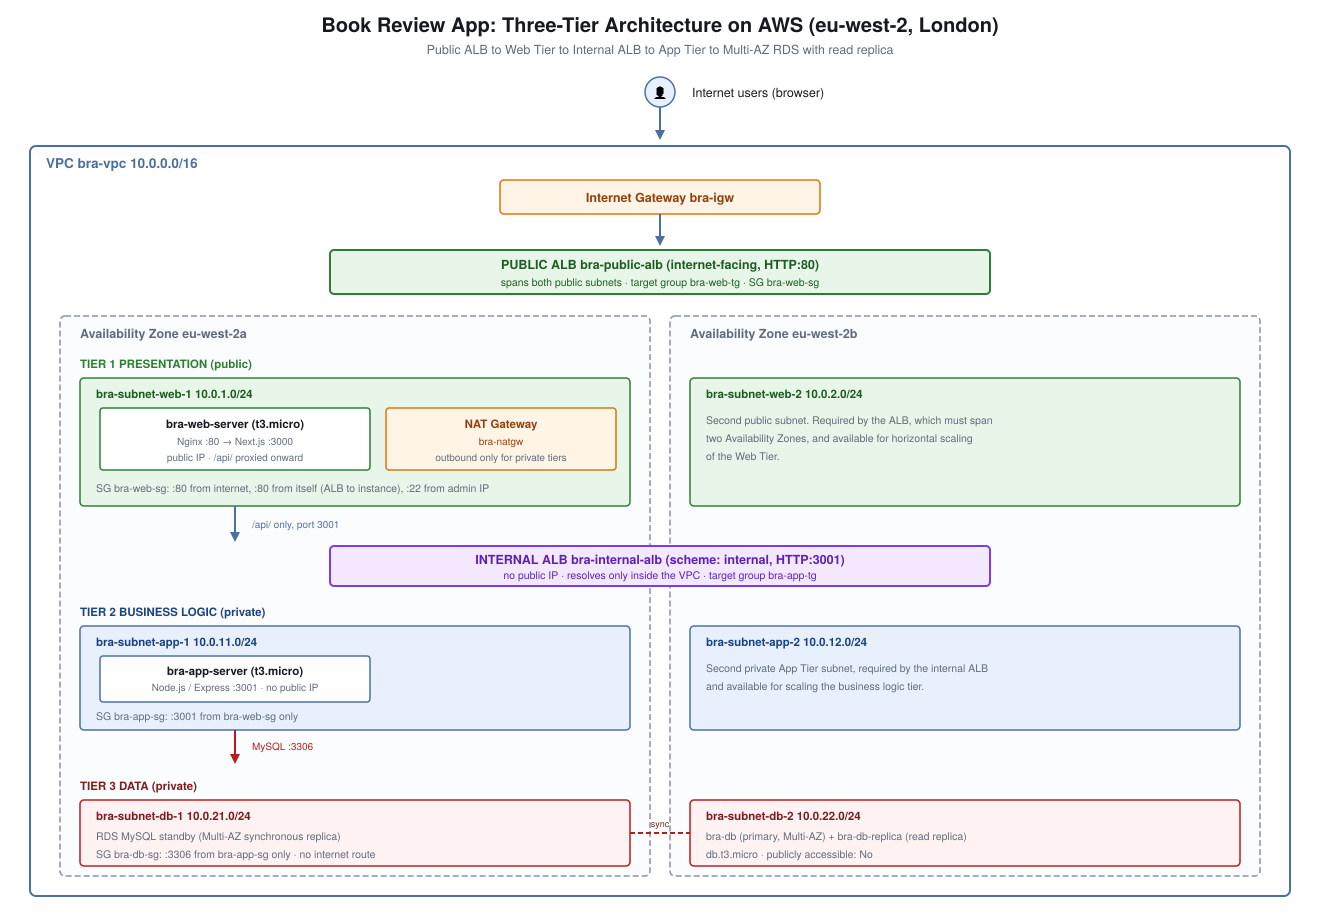
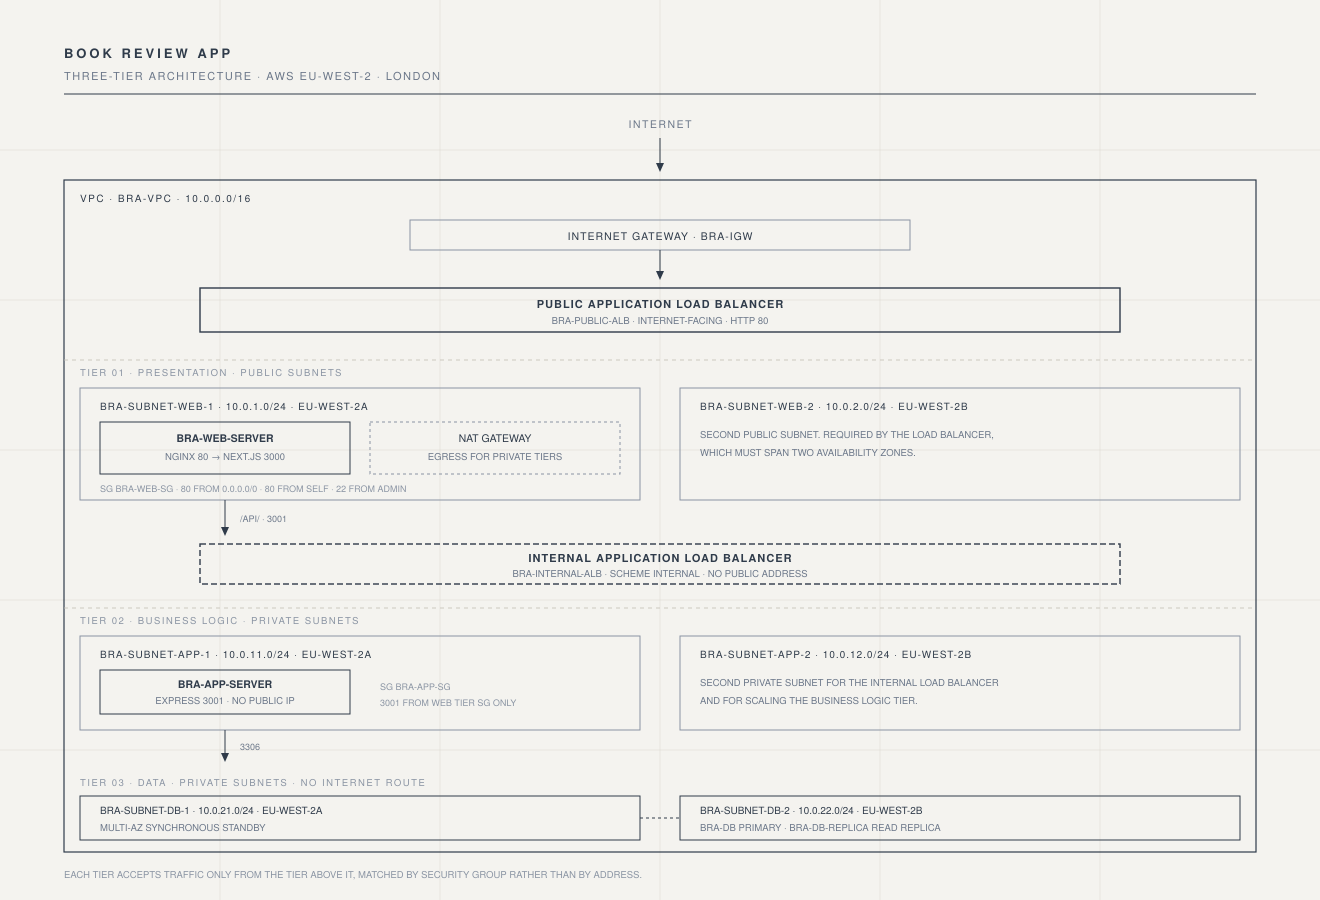
Week 6 Assignment 6: capstone complete with LinkedIn post and blueprint architecture diagram

diff --git a/week-06-aws-cloud/assignment-06-capstone-deploy-book-review-app-three-tier-architecture-on-aws.md b/week-06-aws-cloud/assignment-06-capstone-deploy-book-review-app-three-tier-architecture-on-aws.md
@@ -176,13 +176,13 @@ Publish a LinkedIn post sharing the capstone deployment, including the public AL
 
 Paste your LinkedIn post URL here:
 
-`Add your URL here`
+`https://www.linkedin.com/posts/oluwagbade-odimayo-_dmibypravinmishra-activity-7492925022974607360-bFS1`
 
 ---
 
 #### Screenshot of LinkedIn post
 
-TODO_LINKEDIN_SCREENSHOT
+![Published LinkedIn post covering the three-tier capstone deployment](./screenshots/a6-09-linkedin-post.png)
 
 ---
 
@@ -195,14 +195,14 @@ TODO_LINKEDIN_SCREENSHOT
 
 # Completion Checklist
 
-- [ ] Task 1: Architecture diagram completed
-- [ ] Task 2: AWS Region and services documented
-- [ ] Task 3: Public ALB DNS confirmed working
-- [ ] Task 4: All six evidence screenshots captured (Web Tier, App Tier, both ALBs, RDS + replica, app UI)
-- [ ] Task 5: Deployment summary completed (what worked, issues/fixes, tools/sources)
-- [ ] LinkedIn post published and URL submitted
-- [ ] App Tier and Database Tier confirmed not publicly accessible
-- [ ] No sensitive data exposed
+- [x] Task 1: Architecture diagram completed
+- [x] Task 2: AWS Region and services documented
+- [x] Task 3: Public ALB DNS confirmed working
+- [x] Task 4: All six evidence screenshots captured (Web Tier, App Tier, both ALBs, RDS + replica, app UI)
+- [x] Task 5: Deployment summary completed (what worked, issues/fixes, tools/sources)
+- [x] LinkedIn post published and URL submitted
+- [x] App Tier and Database Tier confirmed not publicly accessible
+- [x] No sensitive data exposed
 
 ---
 
